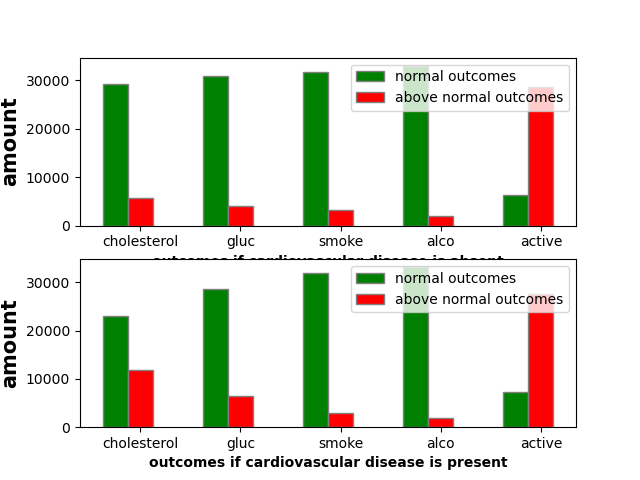
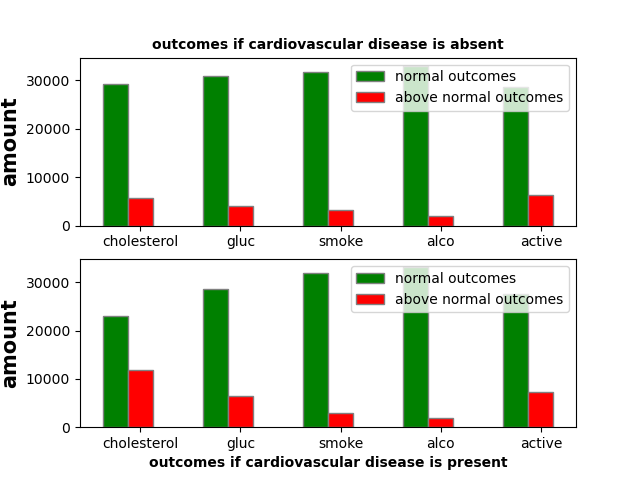
renamed file

Changed region(s): [[0.25, 0.0625, 0.7812, 0.125], [0.7812, 0.1562, 0.875, 0.4375], [0.7812, 0.5938, 0.875, 0.8438]]

diff --git a/medical_analysis/medical_analysis.py b/medical_analysis/medical_analysis.py
@@ -2,6 +2,7 @@ import numpy as np
 import pandas as pd
 import seaborn as sns
 import matplotlib.pyplot as plt
+import scipy.stats as stat
 
 # getting the data and showing some basic info about every feature:
 data = pd.read_csv("medical_examination.csv")
@@ -11,18 +12,14 @@ print(data.count())
 print(data.shape)
 print(data.columns)
 
-# making chart : where we show the counts of good and bad outcomes for the cholesterol, gluc, alco,
-# active, and smoke variables for patients with cardio=1 and cardio=0 in different panels
+# making charts : where we show counts of different outcomes for the cholesterol, gluc, alco,
+# active, and smoke variables for patients with cardio=1 and cardio=0 in different panels:
 columns_needed = data[['cholesterol', 'gluc', 'smoke', 'alco', 'active', 'cardio']]
-print(columns_needed)
 index_col = ['cholesterol', 'gluc', 'smoke', 'alco', 'active']
-print(index_col)
 data_cardio_0 = columns_needed.loc[columns_needed['cardio'] == 0]
-print(data_cardio_0)
 data_cardio_1 = columns_needed.loc[columns_needed['cardio'] == 1]
-print(data_cardio_1)
 
-# making 2 bars with good and bad outcomes for patients with cardio = '1' and with cardio = '0':
+# counting outcomes for bad and good outcomes for 2 different class of feature 'cardio' :
 chol_good_cardio_1 = data_cardio_1[data_cardio_1['cholesterol'] == 1].shape[0]
 chol_bad_cardio_1 = data_cardio_1[data_cardio_1['cholesterol'] == 2].shape[0] + data_cardio_1[data_cardio_1['cholesterol'] == 3].shape[0]
 chol_bad_cardio_0 = data_cardio_0[data_cardio_0['cholesterol'] == 2].shape[0] + data_cardio_0[data_cardio_0['cholesterol'] == 3].shape[0]
@@ -43,40 +40,18 @@ al_bad_cardio_1 = data_cardio_1[data_cardio_1['alco'] == 1].shape[0]
 al_good_cardio_0 = data_cardio_0[data_cardio_0['alco'] == 0].shape[0]
 al_bad_cardio_0 = data_cardio_0[data_cardio_0['alco'] == 1].shape[0]
 
-act_good_cardio_1 = data_cardio_1[data_cardio_1['active'] == 0].shape[0]
-act_bad_cardio_1 = data_cardio_1[data_cardio_1['active'] == 1].shape[0]
-act_good_cardio_0 = data_cardio_0[data_cardio_0['active'] == 0].shape[0]
-act_bad_cardio_0 = data_cardio_0[data_cardio_0['active'] == 1].shape[0]
+act_good_cardio_1 = data_cardio_1[data_cardio_1['active'] == 1].shape[0]
+act_bad_cardio_1 = data_cardio_1[data_cardio_1['active'] == 0].shape[0]
+act_good_cardio_0 = data_cardio_0[data_cardio_0['active'] == 1].shape[0]
+act_bad_cardio_0 = data_cardio_0[data_cardio_0['active'] == 0].shape[0]
 
-good_cardio_1 = []
-bad_cardio_1 = []
-good_cardio_0 = []
-bad_cardio_0 = []
-good_cardio_1.append(chol_good_cardio_1)
-good_cardio_1.append(gl_good_cardio_1)
-good_cardio_1.append(sm_good_cardio_1)
-good_cardio_1.append(al_good_cardio_1)
-good_cardio_1.append(act_good_cardio_1)
-print(good_cardio_1)
+# sorting counts into lists to make bar charts:
+good_cardio_1 = [chol_good_cardio_1, gl_good_cardio_1, sm_good_cardio_1, al_good_cardio_1, act_good_cardio_1]
+bad_cardio_1 = [chol_bad_cardio_1, gl_bad_cardio_1, sm_bad_cardio_1, al_bad_cardio_1, act_bad_cardio_1]
+good_cardio_0 = [chol_good_cardio_0, gl_good_cardio_0, sm_good_cardio_0, al_good_cardio_0, act_good_cardio_0]
+bad_cardio_0 = [chol_bad_cardio_0, gl_bad_cardio_0, sm_bad_cardio_0, al_bad_cardio_0, act_bad_cardio_0]
 
-bad_cardio_1.append(chol_bad_cardio_1)
-bad_cardio_1.append(gl_bad_cardio_1)
-bad_cardio_1.append(sm_bad_cardio_1)
-bad_cardio_1.append(al_bad_cardio_1)
-bad_cardio_1.append(act_bad_cardio_1)
-
-good_cardio_0.append(chol_good_cardio_0)
-good_cardio_0.append(gl_good_cardio_0)
-good_cardio_0.append(sm_good_cardio_0)
-good_cardio_0.append(al_good_cardio_0)
-good_cardio_0.append(act_good_cardio_0)
-
-bad_cardio_0.append(chol_bad_cardio_0)
-bad_cardio_0.append(gl_bad_cardio_0)
-bad_cardio_0.append(sm_bad_cardio_0)
-bad_cardio_0.append(al_bad_cardio_0)
-bad_cardio_0.append(act_bad_cardio_0)
-
+# bar charts:
 bar_width = 0.25
 bar1 = np.arange(len(good_cardio_0))
 bar2 = [x + bar_width for x in bar1]
@@ -85,7 +60,7 @@ plt.subplot(2, 1, 1)
 plt.bar(bar1, good_cardio_0, color='green', width=bar_width, edgecolor='grey', label='normal outcomes')
 plt.bar(bar2, bad_cardio_0, color='red', width=bar_width, edgecolor='grey', label='above normal outcomes')
 
-plt.xlabel('outcomes if cardiovascular disease is absent', fontweight='bold', fontsize=10)
+plt.title('outcomes if cardiovascular disease is absent', fontweight='bold', fontsize=10)
 plt.ylabel('amount', fontweight='bold', fontsize=15)
 plt.xticks([r + bar_width for r in range(len(good_cardio_0))], index_col)
 plt.legend()
@@ -101,7 +76,7 @@ plt.xticks([r + bar_width for r in range(len(good_cardio_0))], index_col)
 plt.legend()
 plt.show()
 
-# calculating BMI of an every patient and classing as an overweight '1' or not overweight '0':
+# calculating (making new feature) BMI for an every patient and classing as an overweight '1' or not overweight '0':
 bmi = pd.Series([], dtype='float64')
 print(len(data))
 for i in range(len(data)):
@@ -115,20 +90,18 @@ print(data.head(10))
 overweight = np.zeros(70000)
 for i in range(len(data)):
     if data['BMI'][i] > 25:
-        overweight[i] = 1
+        overweight[i] = int(1)
     else:
-        overweight[i] = 0
+        overweight[i] = int(0)
 
-data.insert(14, 'Overweight', overweight)
+data.insert(14, 'overweight', overweight)
 
-# Normalizing the data by making 0 always good and 1 always bad-the value of cholesterol or glucose:
+# Normalizing the data by making 0 always good and 1 always bad - the value of cholesterol or glucose:
 
 data["cholesterol"] = np.where(data["cholesterol"] == 1, 0, 1)
 data["gluc"] = np.where(data["gluc"] == 1, 0, 1)
 
-print(data.head(10))
-
-# Cleaning the data. Filtering out the following patient segments that represent incorrect data:
+# Cleaning the data to make correlations. Filtering out the following patient segments that represent incorrect data:
 # diastolic pressure is higher than systolic
 # height is less than the 2.5th percentile
 # height is more than the 97.5th percentile
@@ -142,3 +115,21 @@ plt.subplots(figsize=(12, 9))
 sns.heatmap(corr, vmax=0.8, fmt='.1f', annot=True)
 
 plt.show()
+
+# correlations and p-value for some features:
+# - 'ap-lo' and 'cardio' corr. and p-value:
+ap_lo_cardio_corr = stat.pointbiserialr(data_heatmap['cardio'], data_heatmap['ap_lo'])
+print(ap_lo_cardio_corr)
+# - 'weight' and 'cardio' corr. and p-value:
+weight_cardio_corr = stat.pointbiserialr(data_heatmap['cardio'], data_heatmap['weight'])
+print(weight_cardio_corr)
+# - 'cholesterol' and 'gluc' corr. and p-value:
+plt.plot(data_heatmap['cholesterol'], data_heatmap['gluc'])
+plt.title('chol and gluc')
+plt.show()
+
+# CONCLUSIONS:
+# Patients who have cardiovascular disease also have above normal or well above normal level of cholesterol and glucose
+# Patients who have cardiovascular disease have a less percentage of people who are physically active
+# Looking on a correlation matrix, features : 'weight', 'ap-lo ', 'cholesterol', 'gluc' and 'BMI' have
+# low correlation with 'cardio'.
